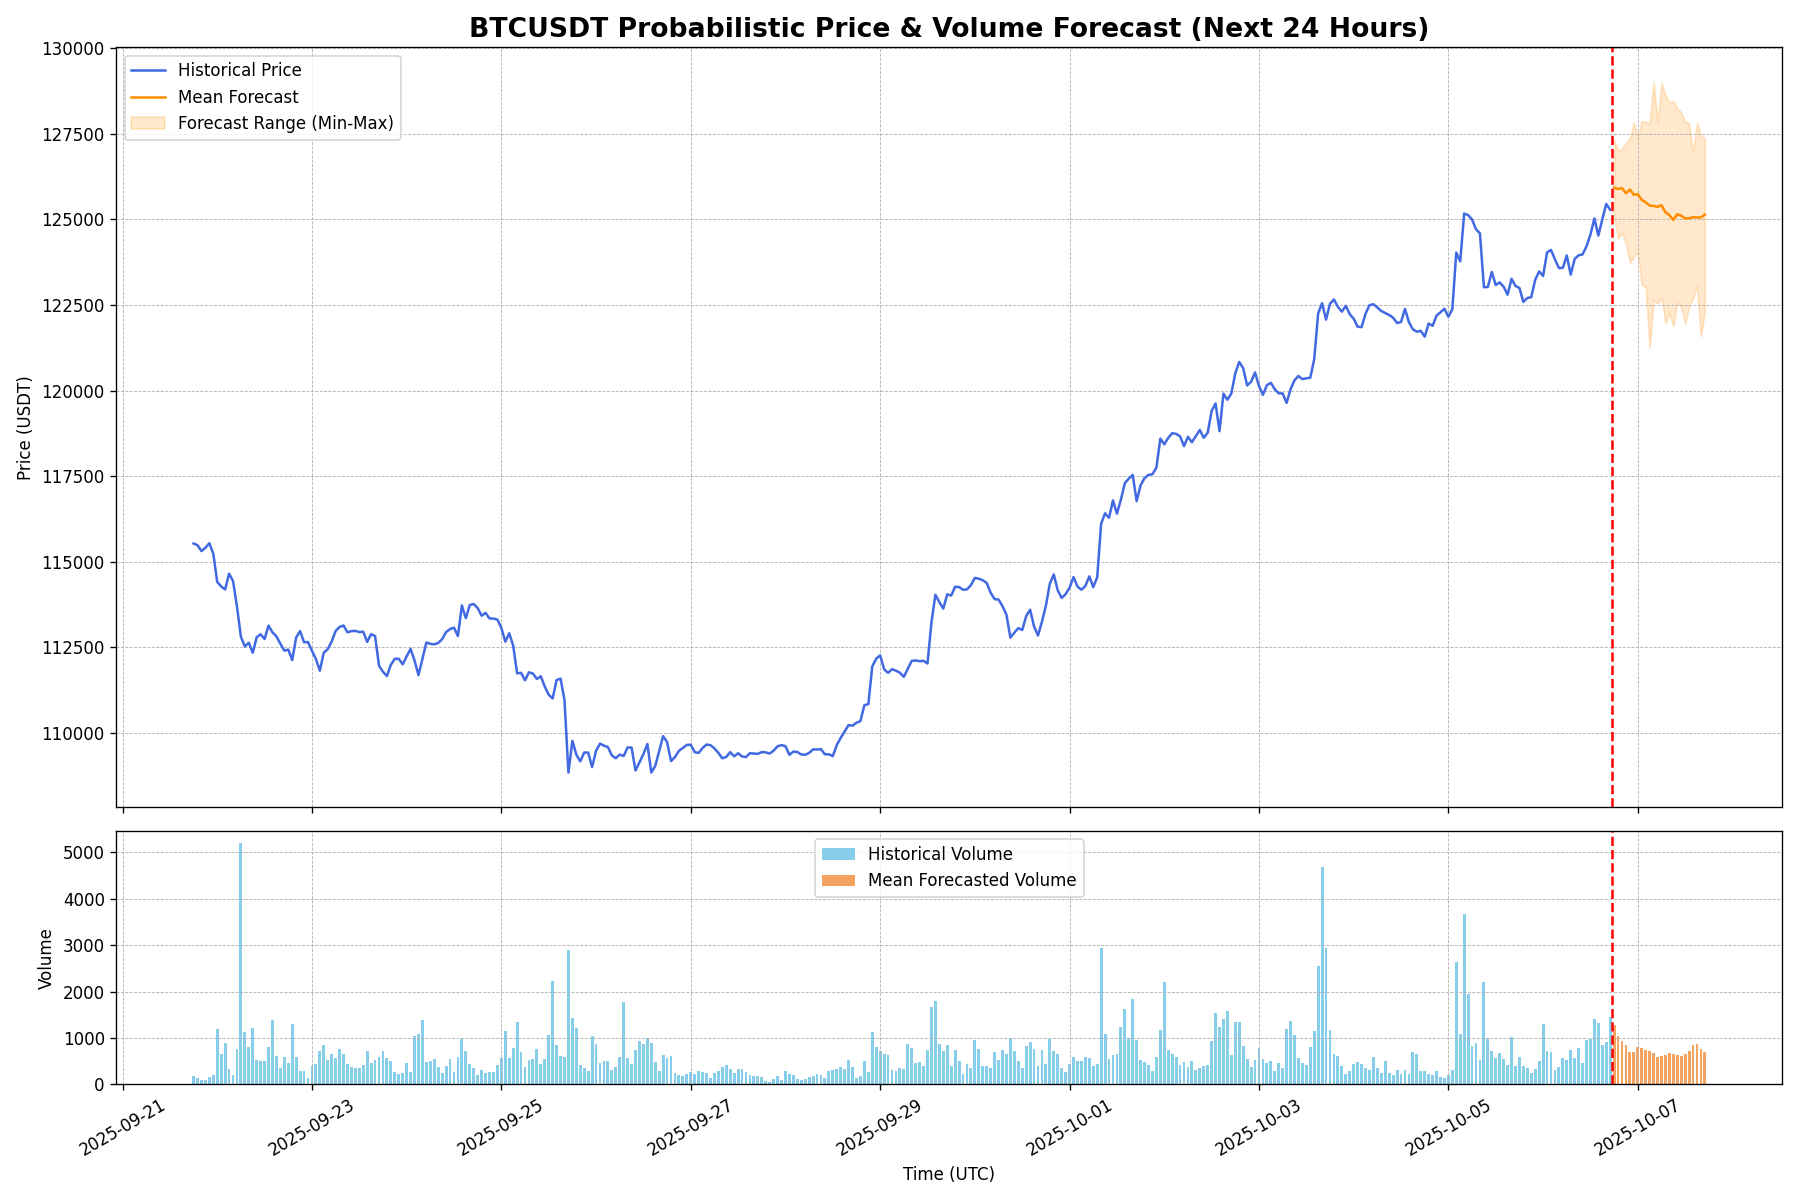
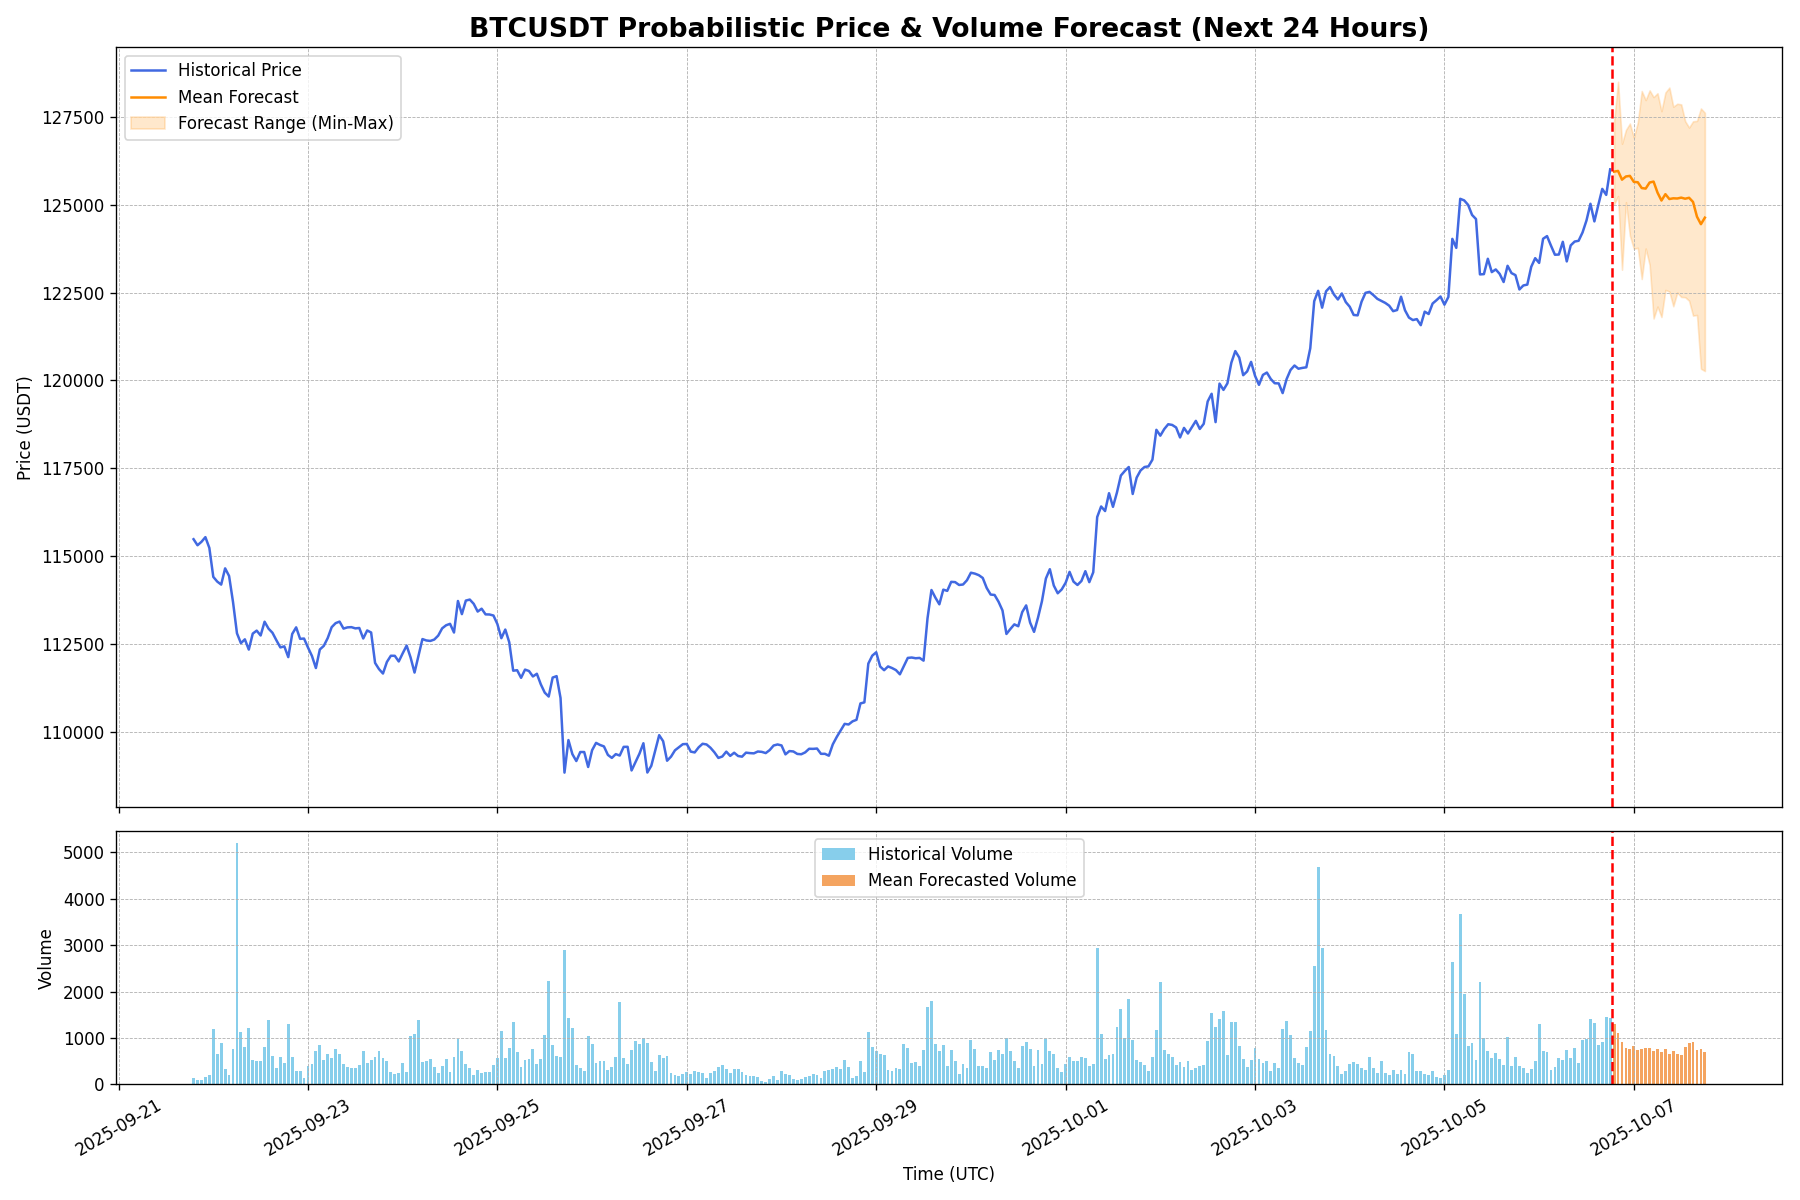
Auto-update forecast for 2025-10-06 19:00 UTC

diff --git a/index.html b/index.html
@@ -22,19 +22,19 @@
         <section id="live-dashboard">
             <h2>Live BTC/USDT Forecast Dashboard</h2>
             <div class="metadata">
-                <span>Last Updated (UTC): <strong id="update-time">2025-10-06 18:00:25</strong></span>
+                <span>Last Updated (UTC): <strong id="update-time">2025-10-06 19:00:25</strong></span>
                 <span>Data Source: Binance | Interval: 1-Hour</span>
             </div>
 
             <div class="metrics-container">
                 <div class="metric-card">
                     <h3>Upside Probability (Next 24h)</h3>
-                    <p class="metric-value" id="upside-prob">60.0%</p>
+                    <p class="metric-value" id="upside-prob">16.7%</p>
                     <div class="metric-desc">The model's confidence that the price in 24 hours will be higher than the last known price.</div>
                 </div>
                 <div class="metric-card">
                     <h3>Volatility Amplification (Next 24h)</h3>
-                    <p class="metric-value" id="vol-amp-prob">96.7%</p>
+                    <p class="metric-value" id="vol-amp-prob">100.0%</p>
                     <div class="metric-desc">The probability that predicted volatility over the next 24h will exceed recent historical volatility.</div>
                 </div>
             </div>
